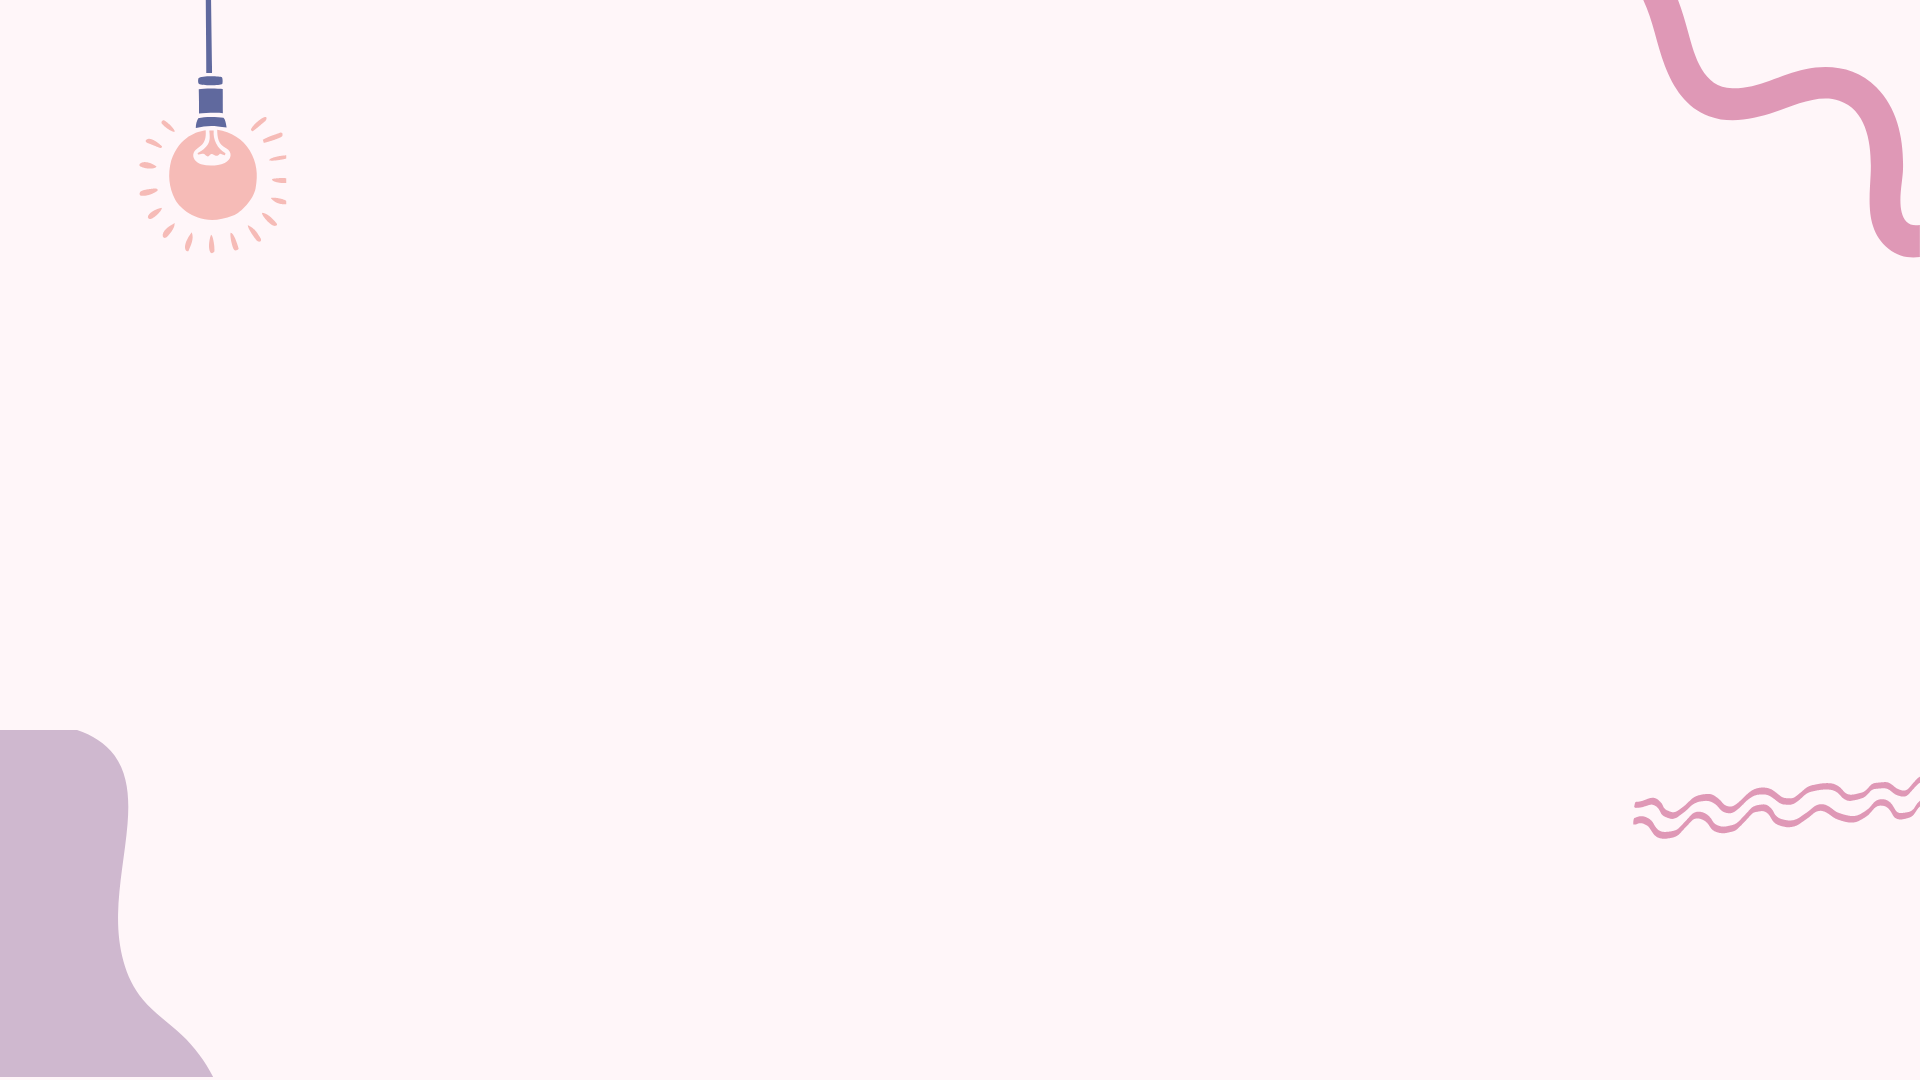
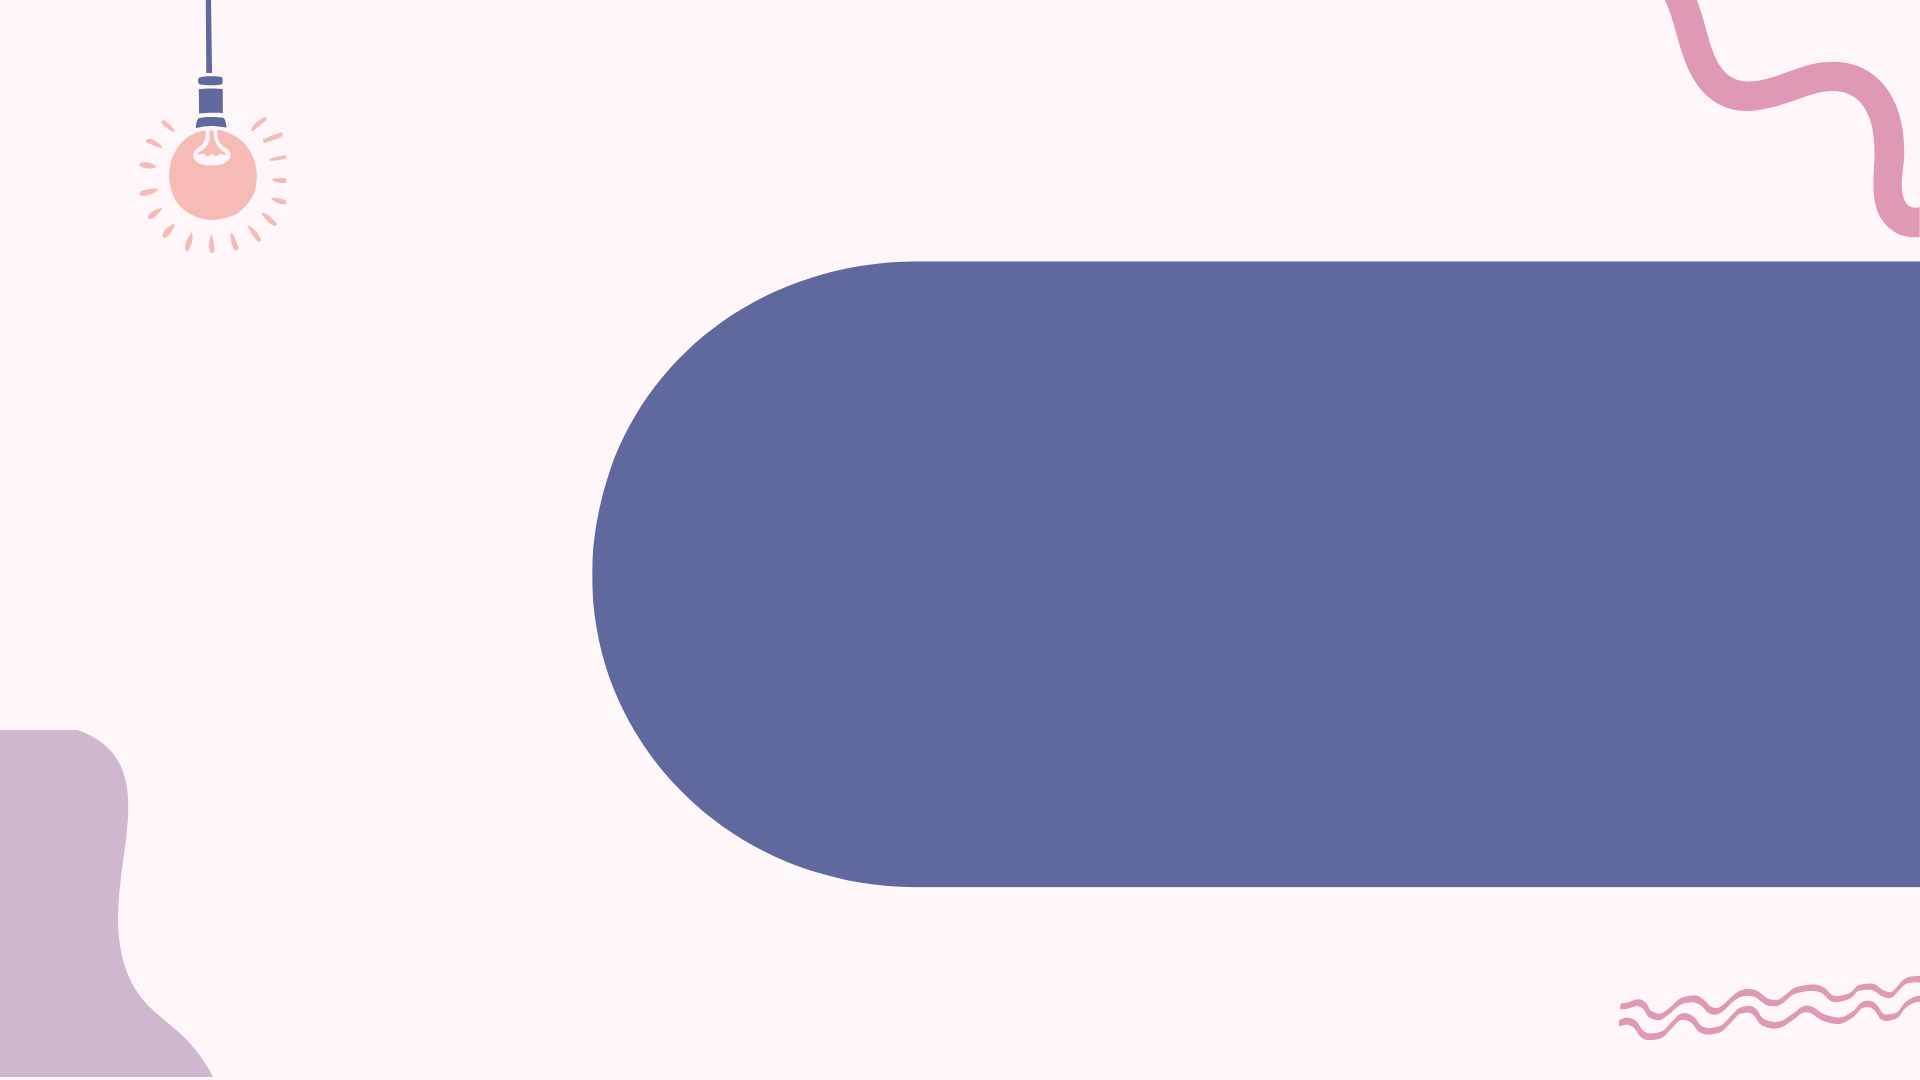
replaced with new skills background img

diff --git a/src/components/Skills.js b/src/components/Skills.js
@@ -14,7 +14,7 @@ import skillsTitle from "../images/skills-title.png";
 function Skills() {
   return (
     <div className="skills">
-      s{/* <NavBar /> */}
+      {/* <NavBar /> */}
       <img className="skills-title" src={skillsTitle} alt="skills" />
       <div className="skills-container">
         <h4 className="skill">

diff --git a/src/index.css b/src/index.css
@@ -68,6 +68,8 @@ code {
 }
 
 .skills-container {
+  width: 80%;
+  margin: auto;
 }
 
 .skill {
@@ -76,7 +78,7 @@ code {
 }
 
 .skills-logo {
-  width: 80px;
+  width: 70px;
 }
 
 .projects {
